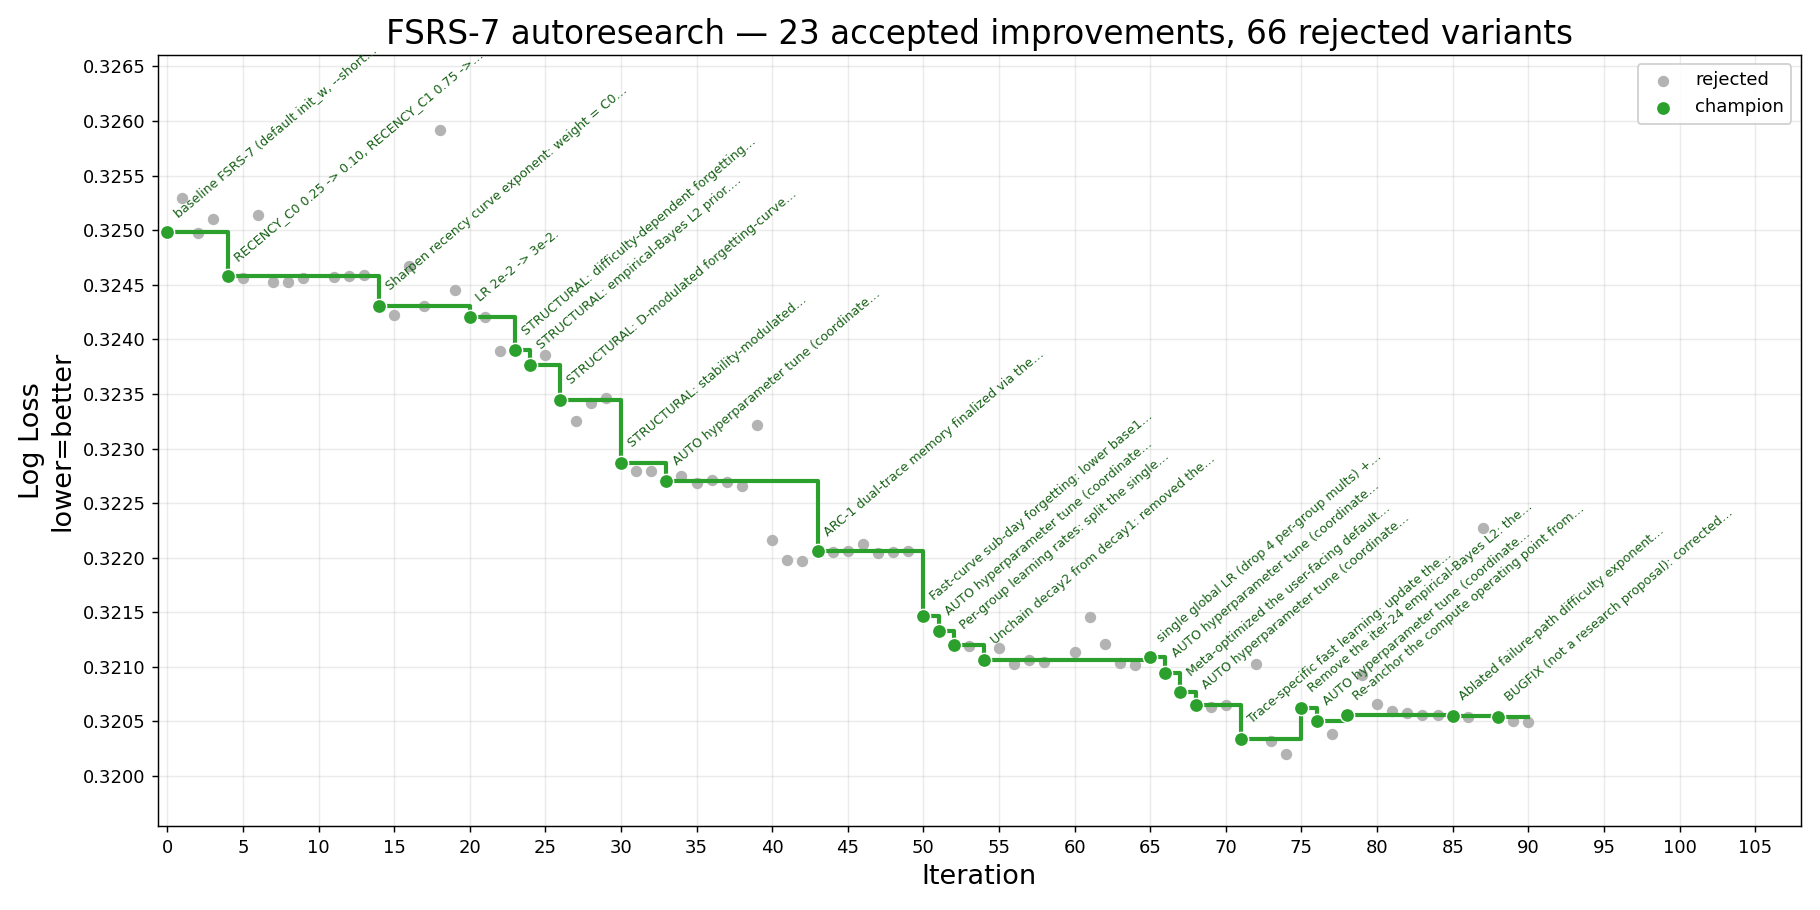
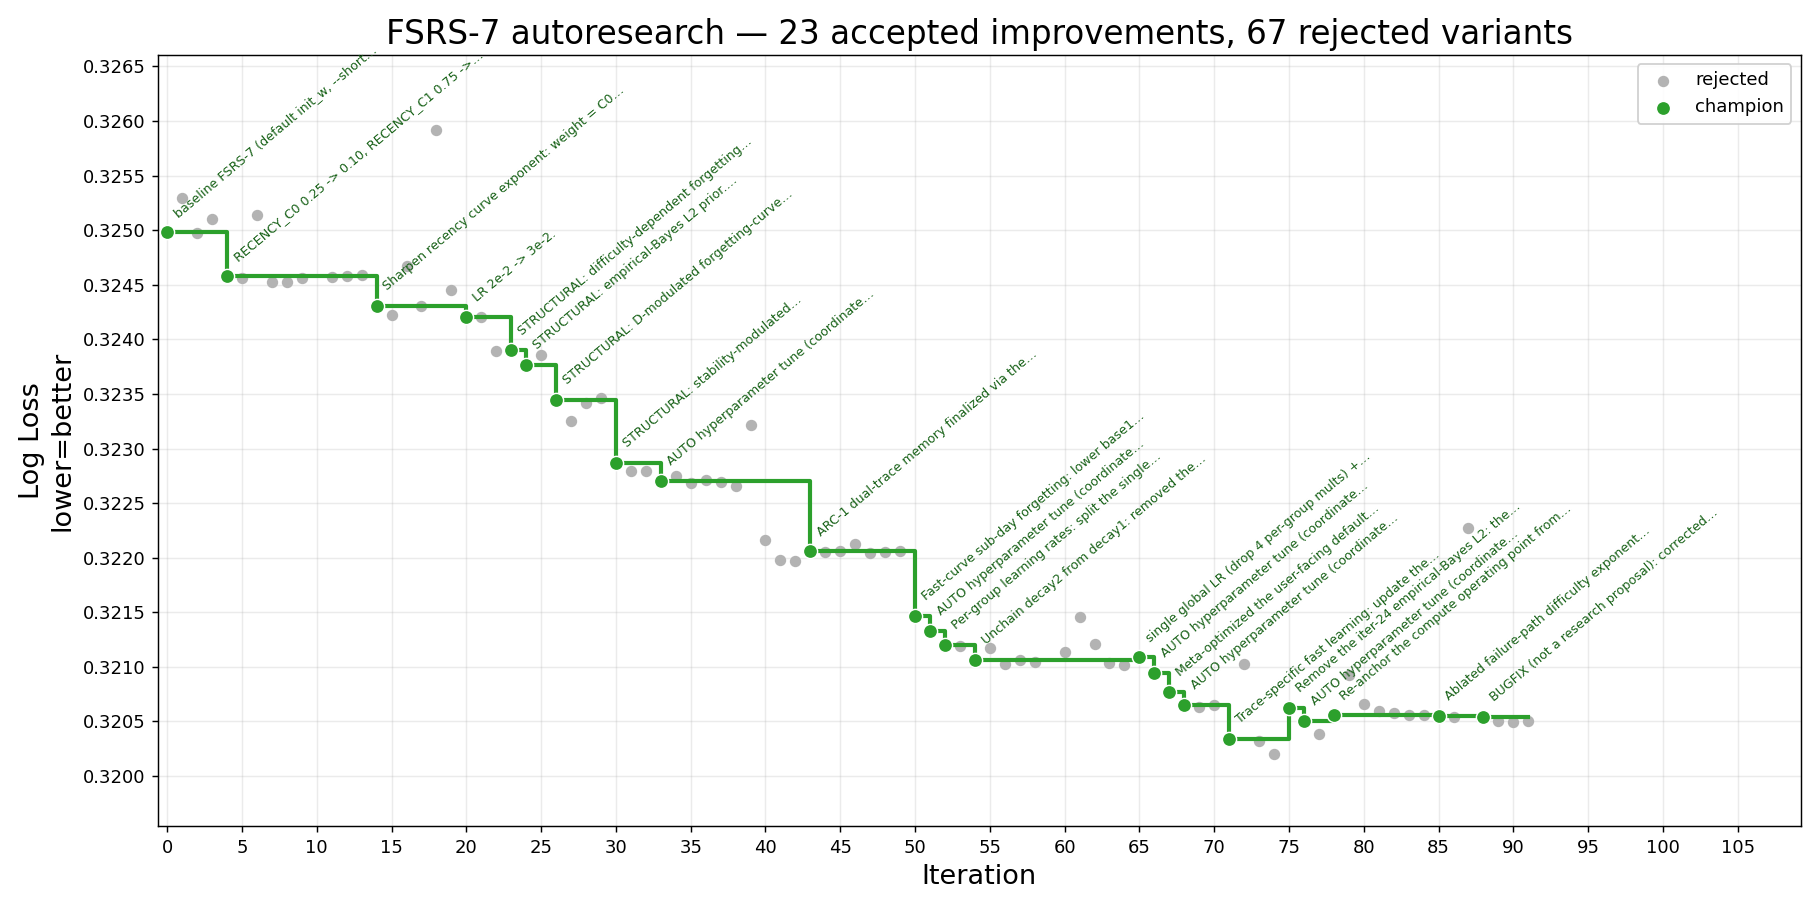
iter 91 (rejected): base1 floor 0.2->0.1 near-miss +3.7e-5 < 0.0001 (improved short_term bucket 0.35092->0.35073 but sub-threshold). All 3 bound-relaxation probes this session land ~4e-5 -> architecture near ceiling, need structural change

diff --git a/result/history.md b/result/history.md
@@ -1,6 +1,6 @@
 # FSRS-7 autoresearch — iteration history
 
-_90 record(s). Generated from `history.jsonl` — do not edit by hand._
+_91 record(s). Generated from `history.jsonl` — do not edit by hand._
 
 | # | Time (UTC) | Thresh. | LL before | LL after | Δ LL | Cx before | Cx after | Δ Cx % | Status | Summary |
 |--:|---|---:|---:|---:|---:|---:|---:|---:|---|---|
@@ -94,3 +94,4 @@ _90 record(s). Generated from `history.jsonl` — do not edit by hand._
 | 88 | 2026-06-04T01:23:35 | — | 0.32055 | 0.32054 | +0.00001 | 16,804 | 16,804 | +0.00% | accepted | BUGFIX (not a research proposal): corrected apply_parameter_clipper base2>=base1 chain index 28/27 -> 26/25, missed in iter-85 ablation reindex. |
 | 89 | 2026-06-04T01:31:41 | 0.0001 | 0.32054 | 0.32051 | +0.00004 | 16,804 | 16,804 | +0.00% | rejected | Raised base2 upper clamp 0.99->0.997 (slow-curve base; 10.5% of users were pinned at ceiling). 0 params. |
 | 90 | 2026-06-04T01:41:42 | 0.0002 | 0.32054 | 0.32050 | +0.00005 | 16,804 | 16,834 | +0.18% | rejected | Added s_decay2 (S-modulation of slow decay, symmetric to s_decay1); factor2 now log-space. +1 param 34->35. |
+| 91 | 2026-06-04T01:48:44 | 0.0001 | 0.32054 | 0.32051 | +0.00004 | 16,804 | 16,804 | +0.00% | rejected | Lowered base1 (fast-curve base) floor 0.2->0.1 for steeper sub-day forgetting (short_term bucket). 0 params. |
